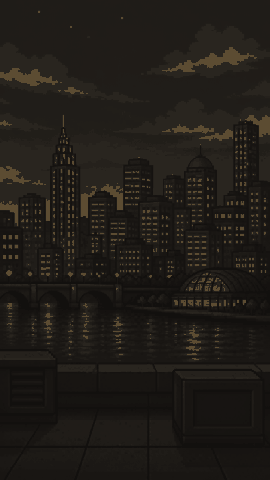
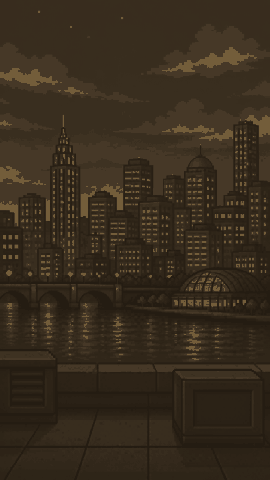
RetroNews: Kodachrome — lift and chroma, not just a warmer grey
"Warm charcoal" was still 90% charcoal: ~0.17 saturation, and it read as
grimdark. QUIET IS NOT THE SAME AS GREY, and fixing it needs two SEPARATE levers,
not one. Chroma alone leaves a dim room; light alone leaves it colourless. The
shell needed both:

                  luminance          saturation
    panel fill    0.019 -> 0.052     0.17 -> 0.42
    raised        0.034 -> 0.084     0.18 -> 0.42
    bevel         0.092 -> 0.234     0.19 -> 0.43
    type          0.683 -> 0.862     0.10 -> 0.12

Sun-faded photograph rather than dim room. Chosen from a four-way render against
the current shell, sepia and dusk plum — sepia was warmer but still DARK, and the
complaint was darkness as much as greyness.

Conditions move from sky blue to TEAL. Against a warm ground a cool blue goes
muddy; teal is near the complement and stays crisp. Content saturation measures
0.45-0.64 against chrome's 0.12-0.31, so the two-tier split still holds.

The backdrop is re-tinted in the same commit because it has to move WITH the
shell — SHELL_FLOOR/SHELL_CEIL/GLOW in tint_bg.py track the palette and are not
free constants. Left alone, the city would sit grey behind a warm stage, which is
the same mismatch this whole thread started with, only inverted.

UNPLANNED AND WORTH RECORDING: this resolved the host-portrait clash that was
flagged as outstanding work. His dominant colours now land within 13-15 of the
new palette — skin #fdc05f against amber #ffcf5c, shirt #fcf4ce against cream
[…]

diff --git a/dashboard/retronews.css b/dashboard/retronews.css
@@ -44,27 +44,39 @@
      aged plastic in a room rather than a black screen. Amber is the retro-CRT
      colour and stays the primary content accent. */
 
-  /* SHELL — quiet. */
-  --sky0:  #191714;          /* deepest field */
-  --sky1:  #211e1a;          /* row A */
-  --sky2:  #282521;          /* panel fill / row B */
-  --sky3:  #37332d;          /* raised panel */
-  --lit:   #5b554a;          /* bevel highlight (top-left) */
-  --shade: #0d0c0a;          /* bevel shadow (bottom-right) + outline */
-  --ink:   #ded7c7;          /* primary type */
-  --dim:   #8b8478;          /* secondary type — replaces chrome's use of cyan */
+  /* SHELL — quiet, but WARM and LIFTED. Straight greys read as grim no matter
+     how "warm" the hex is: the first pass carried only ~0.14 saturation and the
+     whole stage looked dead. Two things fix that and they are separate — more
+     CHROMA, and more LIGHT. This is the second-lightest of four candidates and
+     was picked precisely because the complaint was darkness, not just greyness.
+     Sun-faded photograph rather than dim room. */
+  --sky0:  #3a2f22;          /* deepest field */
+  --sky1:  #3e3324;          /* row A — one step DOWN from the panel */
+  --sky2:  #4c3e2c;          /* panel fill / row B */
+  --sky3:  #614f38;          /* raised panel */
+  --lit:   #9b8158;          /* bevel highlight (top-left) */
+  --shade: #201810;          /* bevel shadow (bottom-right) + outline */
+  --ink:   #f8eeda;          /* primary type */
+  --dim:   #c0a884;          /* secondary type */
 
-  /* CONTENT — allowed to be loud. Used INSIDE panels, never on the shell. */
-  --gold:  #e0982c;          /* amber: temperatures, tile headers, money */
-  --gold2: #b06f18;          /* amber shadow / pressed */
-  --cyan:  #6fb0c8;          /* muted sky: conditions, secondary data */
-  --alert: #c8503c;          /* the one red — alerts, LIVE dot, adverts */
+  /* CONTENT — allowed to be loud. Used INSIDE panels, never on the shell.
+     TEAL, not the old sky blue: against a warm shell a cool blue goes muddy,
+     whereas teal is close to the complement of the ground and stays crisp. */
+  --gold:  #ffcf5c;          /* amber: temperatures, tile headers, money */
+  --gold2: #b8873a;          /* amber shadow / pressed */
+  --cyan:  #6fc8bc;          /* teal: conditions, secondary data */
+  --alert: #e86a40;          /* the one red — alerts, LIVE dot, adverts */
 
   /* REVERT — GBA, in this order:
      #0a1030 #141c48 #1e2c68 #2c4494 #6f9ae8 #060a20 #f4f8ff (ink) / #46dcff
      (cyan) #ffc830 #c07f10 #e83848
      NES:  #0e0e0e #1a1a1a #2c2c2c #4a4a4a #b4b4ac #000000 #ececE4 / #9c9c94
-     #e0342c #8c1219 #e0342c */
+     #e0342c #8c1219 #e0342c
+     WARM CHARCOAL (too grim): #191714 #211e1a #282521 #37332d #5b554a #0d0c0a
+     #ded7c7 / #8b8478 #e0982c #b06f18 #6fb0c8 #c8503c
+     SEPIA (warm but still dark): #2a2118 #3b3024 #4e402c #8a7350 #140e08
+     #f2e6ce / #b39c78
+     DUSK PLUM: #241c26 #322836 #453548 #7d6483 #120c14 #ece0ee / #a892ad */
 
   /* THE SAFE BOX IS MEASURED, not derived from published guides.
      Calibrated 2026-07-20 off a real YouTube mobile livestream screenshot; see

diff --git a/scripts/tint_bg.py b/scripts/tint_bg.py
@@ -15,8 +15,8 @@ bevels and high-contrast type, so a backdrop with a NARROW tonal range sits
 behind them even at a similar mean brightness. Crushing the city to near-black
 would also work, but half the frame would then be an empty rectangle.
 
-So: map luminance into a narrow warm band whose top stays BELOW --lit (#5b554a,
-the panel bevel highlight). Nothing in the backdrop is ever as bright as the edge
+So: map luminance into a narrow warm band whose top stays BELOW --lit (the panel
+bevel highlight). Nothing in the backdrop is ever as bright as the edge
 of a panel, which is what keeps the panels reading as objects on top of it.
 
 Window lights and water reflections are found by WARMTH, not brightness. They
@@ -40,9 +40,12 @@ from collections import Counter
 from PIL import Image
 
 # Derived from retronews.css :root so the backdrop cannot drift from the shell.
-SHELL_FLOOR = (0x12, 0x10, 0x0e)     # just above --shade
-SHELL_CEIL  = (0x3a, 0x34, 0x2c)     # deliberately BELOW --lit #5b554a
-GLOW        = (0x9a, 0x7c, 0x44)     # amber for window lights and reflections
+# Track the shell. These are not free constants — the ceiling MUST stay below
+# --lit or the backdrop stops receding, and the floor sits just above --shade so
+# the darkest part of the city is not blacker than a panel outline.
+SHELL_FLOOR = (0x24, 0x1c, 0x12)     # just above --shade #201810
+SHELL_CEIL  = (0x5e, 0x4d, 0x36)     # deliberately BELOW --lit #9b8158
+GLOW        = (0xc8, 0xa0, 0x58)     # amber for window lights and reflections
 GLOW_WARMTH = 18                     # r-b in the SOURCE that marks a light
 COLORS      = 16
 
@@ -117,7 +120,7 @@ def main() -> int:
     sat_after = sum(((max(c) - min(c)) / max(1, max(c))) * n
                     for c, n in after.items()) / max(1, sum(after.values()))
     semi = sum(1 for p in data if 0 < p[3] < 255)
-    lit_lum = lum((0x5b, 0x55, 0x4a, 255))
+    lit_lum = lum((0x9b, 0x81, 0x58, 255))   # --lit
     brightest = max(lum(c + (255,)) for c in after)
     over = sum(n for c, n in after.items() if lum(c + (255,)) > lit_lum)
     over_pct = 100.0 * over / max(1, sum(after.values()))

diff --git a/CLAUDE.md b/CLAUDE.md
@@ -432,9 +432,16 @@ infomercial / broadcast chyron). Reference: <https://weather.com/retro/>.
    weather board and the mock adverts and wrong for the chrome around them. A
    real channel's station furniture is understated; the weather map and the
    infomercial are where the shouting belongs. The split is by **ROLE, not hue**:
-   - **SHELL** — brand bar, panel frames, bevels, host strip, crawl. Warm
-     charcoal, off-white type, and **NO ACCENT COLOUR AT ALL. A coloured chrome
-     element is a bug.** Measured: chrome saturation 0.00–0.14.
+   - **SHELL** — brand bar, panel frames, bevels, host strip, crawl. Sun-faded
+     **Kodachrome** warm browns, cream type, and **NO ACCENT COLOUR AT ALL. A
+     coloured chrome element is a bug.**
+     **"Quiet" is not the same as "grey", and getting that wrong cost a round.**
+     The first quiet shell was warm charcoal at ~0.17 saturation and read as
+     grimdark. Two SEPARATE levers fix it — **chroma AND light** — and the shell
+     needed both: panel fill went lum 0.019→0.052 and sat 0.17→0.42.
+   - **CONTENT partners the shell.** The old sky blue went muddy on a warm
+     ground, so conditions moved to **teal**, which is near the complement and
+     stays crisp.
    - **CONTENT** — what the panels are FOR: temperatures, tile headers, ad copy,
      the LIVE dot. Keeps saturated colour, and reads as loud *precisely because
      nothing around it competes*. Measured: 0.45–0.80.